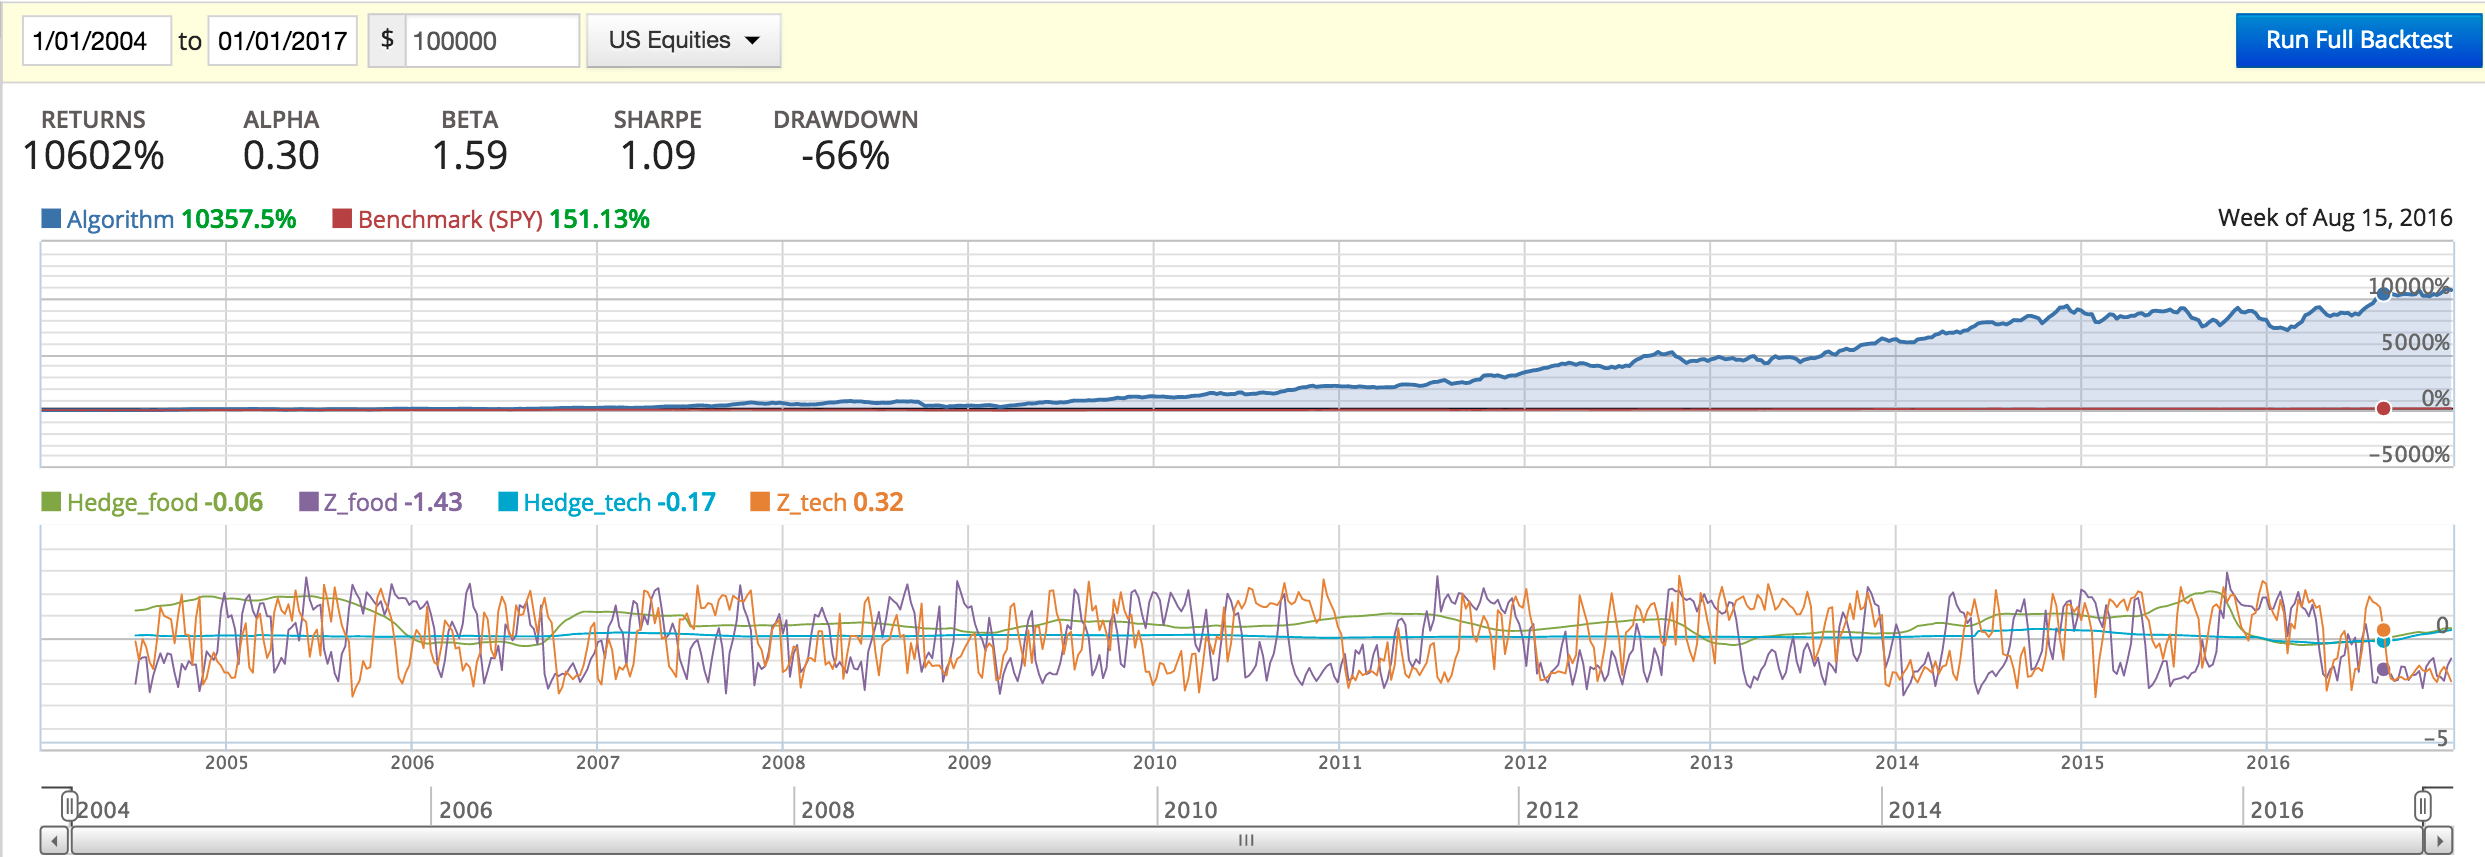
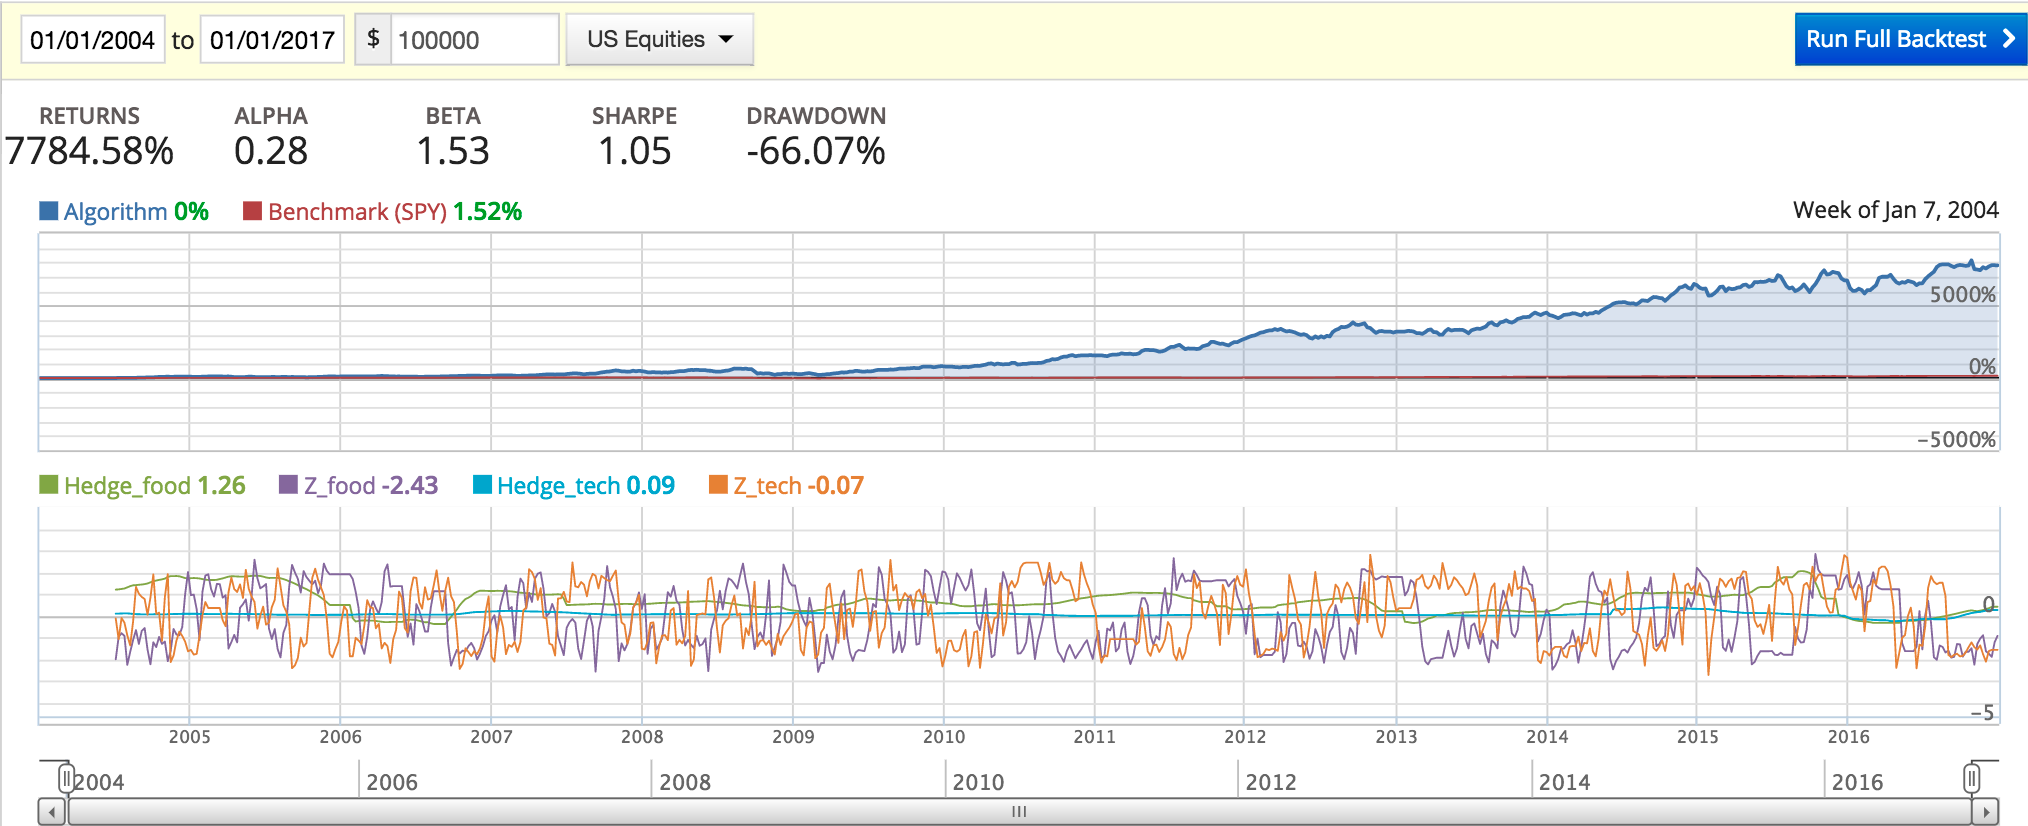
New improved implementation thats the same as the one in my Medium article.

diff --git a/algo.py b/algo.py
@@ -63,7 +63,7 @@ class Half_Life(object):
     def __init__(self):
         self.hl_min = 1.0
         self.hl_max = 42.0
-        self.look_back = 44
+        self.look_back = 43
         self.half_life = None
 
     def apply_half_life(self, time_series):
@@ -116,6 +116,7 @@ class Hurst():
 
 # ~~~~~~~~~~~~~~~~~~~~~~ FUNCTIONS FOR FILING AN ORDER ~~~~~~~~~~~~~~~~~~~~~~
 def hedge_ratio(Y, X):
+    # Look into using Kalman Filter to calculate the hedge ratio
     X = sm.add_constant(X)
     model = sm.OLS(Y, X).fit()
     return model.params[1]
@@ -173,11 +174,12 @@ def process_pair(pair, context, data):
     spread = pair[2]['spread']
     hedge_history = pair[2]['hedge_history']
 
+    # Get hedge ratio (look into using Kalman Filter)
     try:
         hedge = hedge_ratio(stock_1_P, stock_2_P)
     except ValueError as e:
         log.error(e)
-        return pair
+        return [stock_1, stock_2, {'in_short': in_short, 'in_long': in_long, 'spread': spread, 'hedge_history': hedge_history}]
     
     hedge_history = np.append(hedge_history, hedge)
     
@@ -186,7 +188,8 @@ def process_pair(pair, context, data):
         return [stock_1, stock_2, {'in_short': in_short, 'in_long': in_long, 'spread': spread, 'hedge_history': hedge_history}]
 
     hedge = hedge_history[-context.hedge_lag]
-    spread = np.append(spread, stock_1_P[-1] - hedge * stock_2_P[-1])
+    spread = np.append(
+        spread, stock_1_P[-1] - hedge * stock_2_P[-1])
     spread_length = spread.size
 
     adf = ADF()
@@ -197,6 +200,7 @@ def process_pair(pair, context, data):
     if (spread_length < adf.look_back) or (spread_length < half_life.look_back) or (spread_length < hurst.look_back):
         return [stock_1, stock_2, {'in_short': in_short, 'in_long': in_long, 'spread': spread, 'hedge_history': hedge_history}]
 
+    
     # possible "SVD did not converge" error because of OLS
     try:
         adf.apply_adf(spread[-adf.look_back:])

diff --git a/README.md b/README.md
@@ -15,7 +15,9 @@ Currently, my implementation will be able to run on arbitrary amount of possible
 
 I had my algorithm run for 13 years from January 1, 2004 to January 1, 2017. However, I'm planning on seeing how extensible my algorithm is to different time periods and different combination of pairs. From the few tests I have done so far, this seems true and I haven't "overfitted" my algorithm by making it only work in a specific instance.
 
+<!-->
 As my current results stand, I did **10,498.24%** better than the defualt Quantopian benchmark, the SPDR S&P 500 Trust ETF ([SPY](http://www.google.ca/finance?q=SPY&ei=7z6ZWYiaLo2gjAGFs4OYAg)) (103.76%), and **10,510.59%** better than the [Dow](http://www.google.com/finance?q=INDEXDJX:.DJI) (91.41%), with a **10,602%** return.
+-->
 
 ## Issues/Next Steps
 * Quantopian has deprecated version of Statsmodels python library which doesn't have the KPSS test available. I'll need to manually add it myself.
